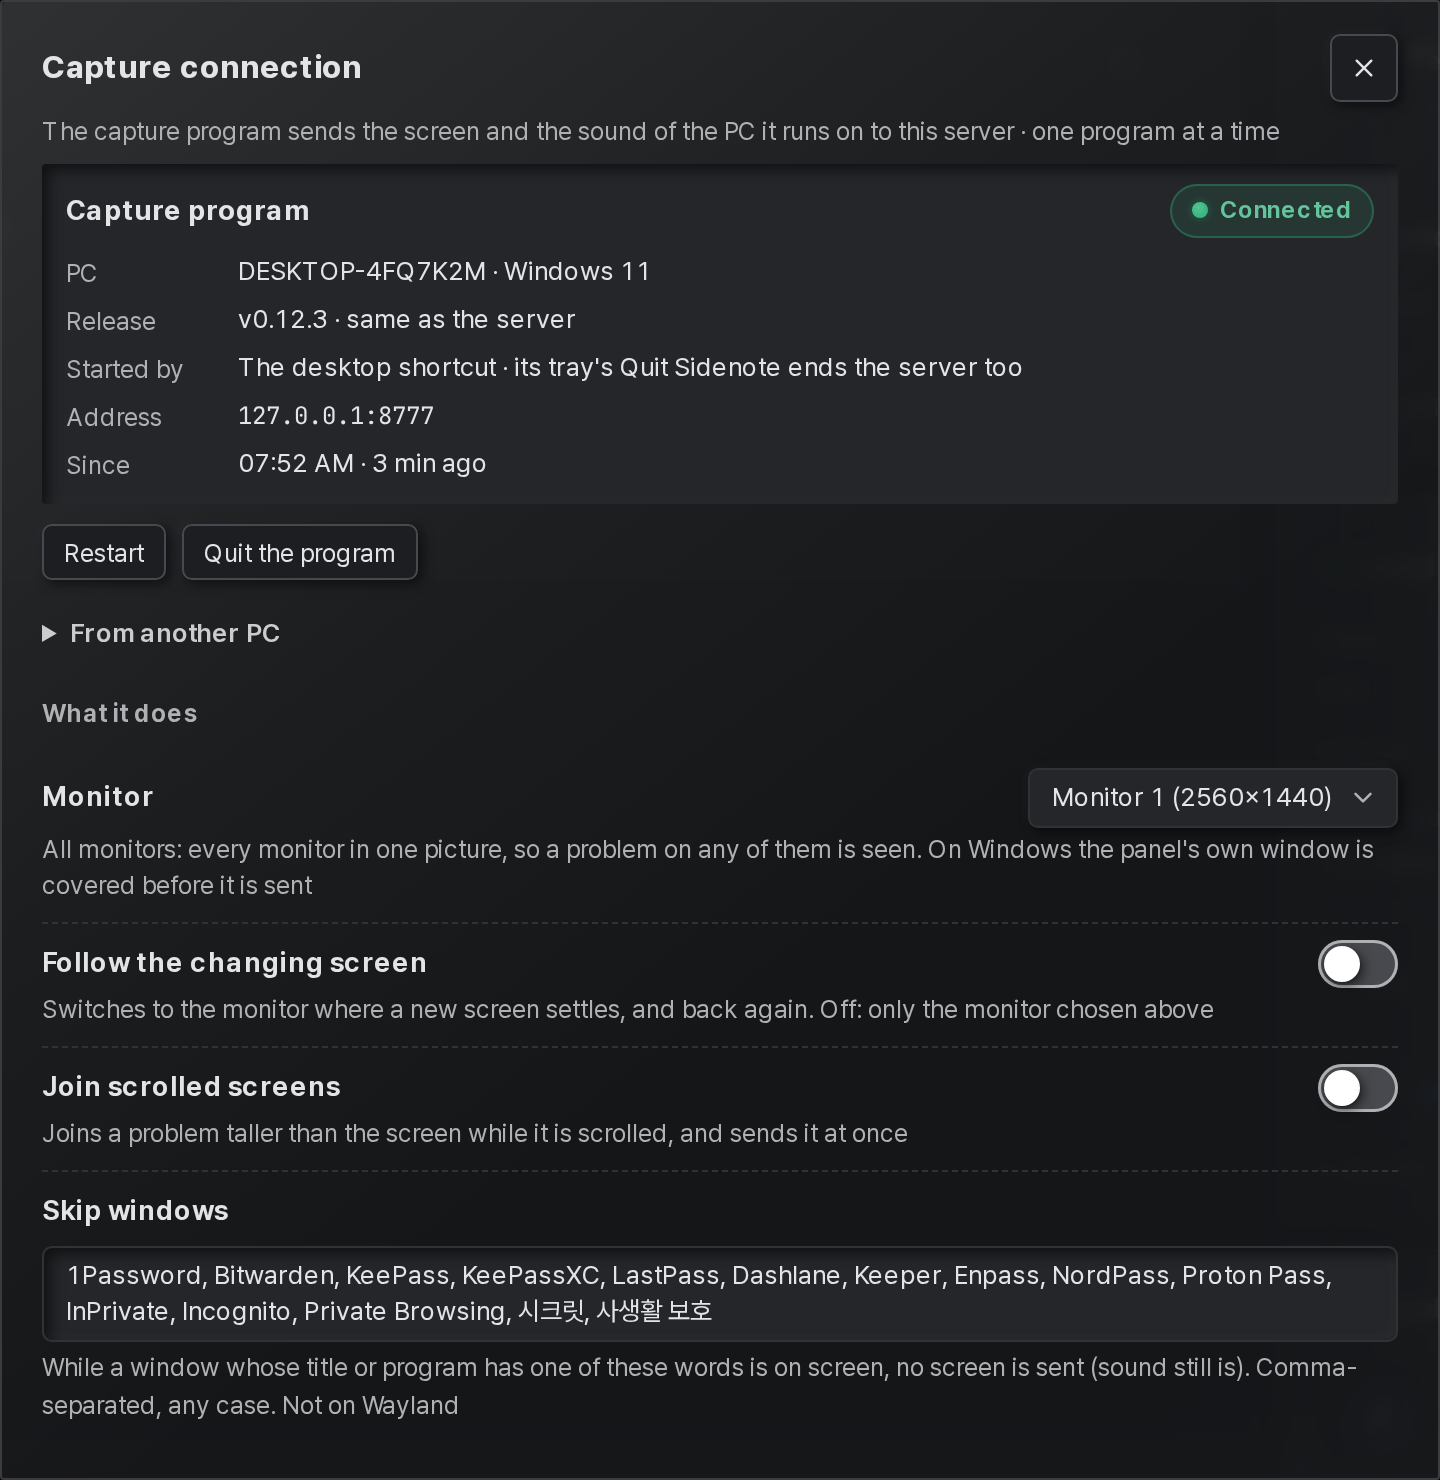
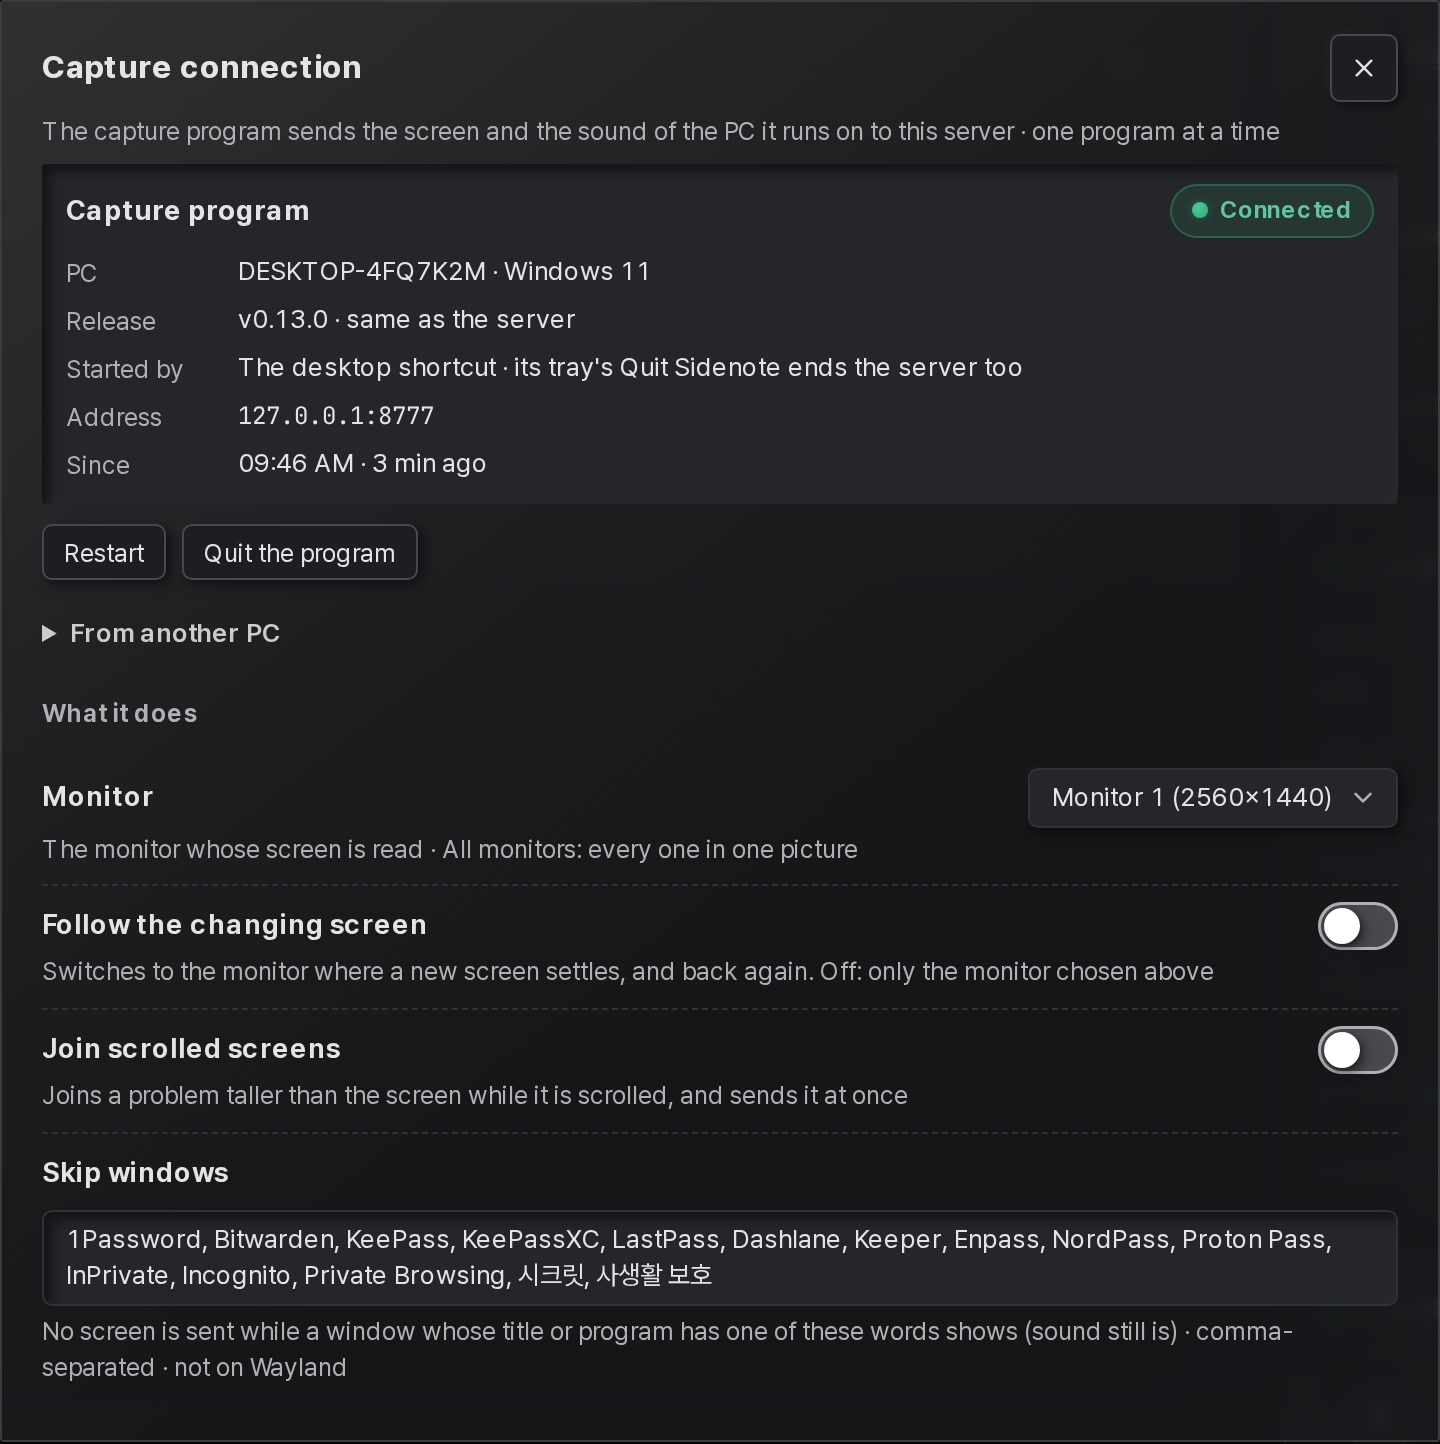
Sidenote 0.13.0

diff --git a/server/version.py b/server/version.py
@@ -7,4 +7,4 @@ Before tagging a release, set it here and in deploy/helm/sidenote/Chart.yaml.
 """
 
 # MAJOR.MINOR.PATCH, as semver.org writes it; the line is read as text, so it stays one line in this form
-VERSION = "0.12.3"
+VERSION = "0.13.0"

diff --git a/docs/README.md b/docs/README.md
@@ -164,9 +164,9 @@ Install Sidenote, start it once, and add what solves: the local model, the cloud
    then asks once for the microphone, as Sidenote hears BlackHole as an input.
 
 To install from a browser instead, download the app for your system from the
-[release](https://github.com/kanggu12/sidenote/releases/latest), `sidenote-server-0.12.3-windows-x64.zip`,
-`sidenote-server-0.12.3-macos-arm64.zip` (Apple silicon) or `sidenote-server-0.12.3-linux-x64.zip`: the server, with its
-panel and this PC's capture program. The release's `sidenote-capture-0.12.3-…` files are the capture program alone, for
+[release](https://github.com/kanggu12/sidenote/releases/latest), `sidenote-server-0.13.0-windows-x64.zip`,
+`sidenote-server-0.13.0-macos-arm64.zip` (Apple silicon) or `sidenote-server-0.13.0-linux-x64.zip`: the server, with its
+panel and this PC's capture program. The release's `sidenote-capture-0.13.0-…` files are the capture program alone, for
 another PC ([the capture program on its own](capture-client.md)). Then:
 
 - **Windows**: right-click the zip, choose **Extract All**, then open the `Sidenote` folder inside and run
@@ -176,14 +176,14 @@ another PC ([the capture program on its own](capture-client.md)). Then:
   stops an app from a browser's download that no publisher signed: in **System Settings**, **Privacy & Security**,
   choose **Open Anyway** at the bottom (on macOS 14, right-click the app, choose **Open**, then **Open** again). The
   quick start's `curl` leaves the zip unmarked, so macOS does not ask there.
-- **Linux**: `unzip sidenote-server-0.12.3-linux-x64.zip && ./Sidenote/Sidenote`.
+- **Linux**: `unzip sidenote-server-0.13.0-linux-x64.zip && ./Sidenote/Sidenote`.
 
-To check a download: each release lists the SHA-256 of its files in `sidenote-0.12.3-sha256sums.txt` (in older
+To check a download: each release lists the SHA-256 of its files in `sidenote-0.13.0-sha256sums.txt` (in older
 releases `SHA256SUMS`, or `Sidenote-<version>-SHA256SUMS.txt`). Run `sha256sum -c --ignore-missing
-sidenote-0.12.3-sha256sums.txt` in the download folder; on macOS compare `shasum -a 256
-sidenote-server-0.12.3-macos-arm64.zip`, and in PowerShell `Get-FileHash sidenote-server-0.12.3-windows-x64.zip`, with
+sidenote-0.13.0-sha256sums.txt` in the download folder; on macOS compare `shasum -a 256
+sidenote-server-0.13.0-macos-arm64.zip`, and in PowerShell `Get-FileHash sidenote-server-0.13.0-windows-x64.zip`, with
 its line there. GitHub also records where each file was built (from 0.1.1 on):
-`gh attestation verify sidenote-server-0.12.3-windows-x64.zip --repo kanggu12/sidenote`.
+`gh attestation verify sidenote-server-0.13.0-windows-x64.zip --repo kanggu12/sidenote`.
 
 When it starts, the app starts Ollama if it is installed but not running, and while it runs it starts again any part it
 started that stops. **Quit Sidenote** in its icon's menu, in the tray or the menu bar, stops everything. Starting the
@@ -560,7 +560,7 @@ notebook carry the same readings.
   - **Clear history**, which takes a second press; an answer still being written stays. Starred answers go with the
     rest, and so does **Recently deleted**.
 
-The version of Sidenote the server runs stands beside the name in the top bar, such as **v0.12.3**, and opens that
+The version of Sidenote the server runs stands beside the name in the top bar, such as **v0.13.0**, and opens that
 release's notes.
 
 The speech language is not in this menu: it is in **Solver settings**, in its **Speech** section.
@@ -1915,8 +1915,8 @@ then runs on its own on your PC (section 17).
 
 When the server is not on this PC (in a cluster, for example), the capture program runs alone on the PC whose screen and
 sound it reads, Windows, a Mac or a Linux desktop: the release's build for that system
-(`sidenote-capture-0.12.3-windows-x64.zip`, `-macos-arm64.zip` or `-linux-x64.zip`) needs nothing installed, and on
-another system the wheel, `sidenote_capture-0.12.3-py3-none-any.whl`, installs with pip on Python 3.10 or newer. It sends to
+(`sidenote-capture-0.13.0-windows-x64.zip`, `-macos-arm64.zip` or `-linux-x64.zip`) needs nothing installed, and on
+another system the wheel, `sidenote_capture-0.13.0-py3-none-any.whl`, installs with pip on Python 3.10 or newer. It sends to
 `ws://127.0.0.1:8777/ingest` by default, which a port-forward on that PC reaches. With the repository in WSL on that
 PC, `./sidenote capture` starts it as usual. [capture-client.md](capture-client.md) has the steps and the options, and
 the panel's **Capture connection** gives them with this server's names and port ([The capture

diff --git a/docs/air-gapped.md b/docs/air-gapped.md
@@ -49,7 +49,7 @@ program keeps the GPU busy; leave it out if you do not want that.
 | 8 GB | `sidenote-gemma4:e2b` | none | 4.6 GB |
 
 ```bash
-V=0.12.3                                     # the newest release, from the releases page
+V=0.13.0                                     # the newest release, from the releases page
 git clone --depth 1 --branch "v$V" https://github.com/kanggu12/sidenote
 cd sidenote
 ./sidenote up                               # builds the images, pulls Ollama's and downloads the speech model
@@ -142,8 +142,8 @@ A speech model that is not in the bundle cannot be chosen in the panel: the choi
 
 The apps for Windows, macOS and Linux hold the server and the capture program, so they need no images and no Python
 packages. Bring `models.tar` and `speech.tar` from step 1, the app's zip from the
-[release](https://github.com/kanggu12/sidenote/releases) (`sidenote-server-0.12.3-windows-x64.zip`,
-`sidenote-server-0.12.3-macos-arm64.zip` or `sidenote-server-0.12.3-linux-x64.zip`), and Ollama's own download: on Linux its archive,
+[release](https://github.com/kanggu12/sidenote/releases) (`sidenote-server-0.13.0-windows-x64.zip`,
+`sidenote-server-0.13.0-macos-arm64.zip` or `sidenote-server-0.13.0-linux-x64.zip`), and Ollama's own download: on Linux its archive,
 as its install script needs the internet.
 
 Install Ollama. Its installer starts it at every sign-in, and Sidenote then uses that Ollama as it is. A model from a
@@ -196,7 +196,7 @@ Push the bundle's images to a registry inside the network, under the names the c
 their tag:
 
 ```bash
-V=0.12.3                                     # the release the bundle was made from
+V=0.13.0                                     # the release the bundle was made from
 gunzip -c images.tar.gz | docker load
 for name in sidenote sidenote-runner; do
   docker tag "$name:local" "registry.internal/$name:$V" && docker push "registry.internal/$name:$V"
@@ -205,7 +205,7 @@ docker tag ollama/ollama:0.40.5 registry.internal/ollama/ollama:0.40.5 && docker
 ```
 
 For an AMD GPU, push `ollama/ollama:0.40.5-rocm` the same way and add `gpuVendor: amd` under `llm` below. Bring the chart,
-`sidenote-server-0.12.3-helm-chart.tgz`, from the release, and write a values file that names the registry and turns off what
+`sidenote-server-0.13.0-helm-chart.tgz`, from the release, and write a values file that names the registry and turns off what
 needs the internet:
 
 ```yaml
@@ -241,9 +241,9 @@ and that root cannot read files that kept the owner they had on the other PC. He
 download, which needs the internet; the two `tar` lines put the bundle's models in place instead.
 
 The capture program runs on the PC with the screen, as [the capture program on its own](capture-client.md) says: the
-release's build for that PC's system (`sidenote-capture-0.12.3-windows-x64.zip`, `-macos-arm64.zip` or `-linux-x64.zip`),
-which needs nothing installed, or the wheel, `sidenote_capture-0.12.3-py3-none-any.whl`, with the packages it needs from the bundle's
-wheels, copied next to it: `py -m pip install --no-index --find-links wheels sidenote_capture-0.12.3-py3-none-any.whl` on Windows, then
+release's build for that PC's system (`sidenote-capture-0.13.0-windows-x64.zip`, `-macos-arm64.zip` or `-linux-x64.zip`),
+which needs nothing installed, or the wheel, `sidenote_capture-0.13.0-py3-none-any.whl`, with the packages it needs from the bundle's
+wheels, copied next to it: `py -m pip install --no-index --find-links wheels sidenote_capture-0.13.0-py3-none-any.whl` on Windows, then
 `sidenote-capture --server ws://127.0.0.1:8777/ingest`.
 
 ## With a model server you already run

diff --git a/docs/capture-client.md b/docs/capture-client.md
@@ -14,9 +14,9 @@ it pointing at the server. It needs nothing installed.
 
 | System | The release's file | Start it, where it was unpacked |
 |:---|:---|:---|
-| Windows (x64) | `sidenote-capture-0.12.3-windows-x64.zip` | `.\Sidenote-Capture\Sidenote-Capture.exe --server ws://127.0.0.1:8777/ingest` |
-| macOS (Apple silicon) | `sidenote-capture-0.12.3-macos-arm64.zip` | `open Sidenote-Capture.app --args --server ws://127.0.0.1:8777/ingest` |
-| Linux (x64, X11) | `sidenote-capture-0.12.3-linux-x64.zip` | `./Sidenote-Capture/Sidenote-Capture --server ws://127.0.0.1:8777/ingest` |
+| Windows (x64) | `sidenote-capture-0.13.0-windows-x64.zip` | `.\Sidenote-Capture\Sidenote-Capture.exe --server ws://127.0.0.1:8777/ingest` |
+| macOS (Apple silicon) | `sidenote-capture-0.13.0-macos-arm64.zip` | `open Sidenote-Capture.app --args --server ws://127.0.0.1:8777/ingest` |
+| Linux (x64, X11) | `sidenote-capture-0.13.0-linux-x64.zip` | `./Sidenote-Capture/Sidenote-Capture --server ws://127.0.0.1:8777/ingest` |
 
 `ws://127.0.0.1:8777/ingest` is also its default, so with the server's port forwarded to 8777 a double-click starts it
 too. On Windows it is not signed by a publisher yet: the first time, **More info**, then **Run anyway**. On macOS it asks
@@ -26,14 +26,14 @@ opened the first time from **System Settings**, **Privacy & Security**, **Open A
 (in a Wayland session, only what XWayland shows) and the speaker sound through PulseAudio, or PipeWire's PulseAudio
 service.
 
-On another system (an Intel Mac, Windows or Linux on ARM), install the wheel, `sidenote_capture-0.12.3-py3-none-any.whl`: the program as a
+On another system (an Intel Mac, Windows or Linux on ARM), install the wheel, `sidenote_capture-0.13.0-py3-none-any.whl`: the program as a
 Python package, the same for every system (`py3-none-any` is the wheel format's way of saying any Python 3 on any
 system). It needs Python 3.10 or newer ([python.org](https://www.python.org/downloads/); on Windows its installer adds
 the `py` command), and pip installs the packages it needs with it and gives it a command:
 
 ```bash
 python3 -m venv ~/.sidenote-capture && . ~/.sidenote-capture/bin/activate
-python3 -m pip install https://github.com/kanggu12/sidenote/releases/download/v0.12.3/sidenote_capture-0.12.3-py3-none-any.whl
+python3 -m pip install https://github.com/kanggu12/sidenote/releases/download/v0.13.0/sidenote_capture-0.13.0-py3-none-any.whl
 sidenote-capture --server ws://127.0.0.1:8777/ingest
 ```
 

diff --git a/README.md b/README.md
@@ -12,7 +12,7 @@
 
 <p align="center">
   <a href="https://github.com/kanggu12/sidenote/actions/workflows/ci.yml"><img alt="CI" src="https://github.com/kanggu12/sidenote/actions/workflows/ci.yml/badge.svg"></a>
-  <a href="https://github.com/kanggu12/sidenote/releases"><img alt="Release v0.12.3" src="docs/assets/badges/release.svg"></a>
+  <a href="https://github.com/kanggu12/sidenote/releases"><img alt="Release v0.13.0" src="docs/assets/badges/release.svg"></a>
   <a href="LICENSE"><img alt="License: MIT" src="docs/assets/badges/license.svg"></a>
   <img alt="Runs on Windows, Linux and macOS" src="docs/assets/badges/runs-on.svg">
   <img alt="GPU: NVIDIA, AMD, Apple silicon or none" src="docs/assets/badges/gpu.svg">
@@ -48,7 +48,7 @@ for the rest.
 **Windows 10 or 11** (PowerShell)
 
 ```powershell
-curl.exe -fL -o "$env:TEMP\Sidenote.zip" https://github.com/kanggu12/sidenote/releases/download/v0.12.3/sidenote-server-0.12.3-windows-x64.zip
+curl.exe -fL -o "$env:TEMP\Sidenote.zip" https://github.com/kanggu12/sidenote/releases/download/v0.13.0/sidenote-server-0.13.0-windows-x64.zip
 mkdir -Force "$env:LOCALAPPDATA\Programs" | Out-Null; tar -xf "$env:TEMP\Sidenote.zip" -C "$env:LOCALAPPDATA\Programs"
 & "$env:LOCALAPPDATA\Programs\Sidenote\Sidenote.exe"
 ```
@@ -57,15 +57,15 @@ mkdir -Force "$env:LOCALAPPDATA\Programs" | Out-Null; tar -xf "$env:TEMP\Sidenot
 Sidenote on, then quit it from its menu bar icon and open it again.
 
 ```bash
-curl -fL -o /tmp/Sidenote.zip https://github.com/kanggu12/sidenote/releases/download/v0.12.3/sidenote-server-0.12.3-macos-arm64.zip
+curl -fL -o /tmp/Sidenote.zip https://github.com/kanggu12/sidenote/releases/download/v0.13.0/sidenote-server-0.13.0-macos-arm64.zip
 ditto -x -k /tmp/Sidenote.zip /Applications && open /Applications/Sidenote.app
 ```
 
 **Linux** (x64, an X11 session)
 
 ```bash
-curl -fLO https://github.com/kanggu12/sidenote/releases/download/v0.12.3/sidenote-server-0.12.3-linux-x64.zip
-unzip -oq sidenote-server-0.12.3-linux-x64.zip && ./Sidenote/Sidenote
+curl -fLO https://github.com/kanggu12/sidenote/releases/download/v0.13.0/sidenote-server-0.13.0-linux-x64.zip
+unzip -oq sidenote-server-0.13.0-linux-x64.zip && ./Sidenote/Sidenote
 ```
 
 **Docker** on Linux, WSL 2 or a Mac, with `git` and `python3`. It adds web search and a sandbox that runs code answers

diff --git a/CHANGELOG.md b/CHANGELOG.md
@@ -6,6 +6,8 @@ that only fixes raises the patch number. Each release's section here is its rele
 
 ## [Unreleased]
 
+## [0.13.0] - 2026-11-24
+
 Spoken questions are not dropped while an answer is being worked out, a follow-up is answered while either engine can,
 and Continue puts this PC's model on the GPU before the first question.
 
@@ -1035,7 +1037,8 @@ Code answers come in a language you choose when nothing names one, Python by def
 
 The first public release: the app for Windows and Linux, the Docker setup, the Helm chart and the capture program.
 
-[Unreleased]: https://github.com/kanggu12/sidenote/compare/v0.12.3...HEAD
+[Unreleased]: https://github.com/kanggu12/sidenote/compare/v0.13.0...HEAD
+[0.13.0]: https://github.com/kanggu12/sidenote/compare/v0.12.3...v0.13.0
 [0.12.3]: https://github.com/kanggu12/sidenote/compare/v0.12.2...v0.12.3
 [0.12.2]: https://github.com/kanggu12/sidenote/compare/v0.12.1...v0.12.2
 [0.12.1]: https://github.com/kanggu12/sidenote/compare/v0.12.0...v0.12.1

diff --git a/deploy/helm/sidenote/README.md b/deploy/helm/sidenote/README.md
@@ -205,7 +205,7 @@ panel to your network.
 The capture program sends to `ws://127.0.0.1:8777/ingest` by default. Run the port-forward on the PC with the screen
 (on Windows, or in WSL on that PC: Windows reaches WSL's localhost), and start the program as usual: `./sidenote capture`
 from the repository (it only checks that `http://127.0.0.1:8777/health` answers), or the release's capture program for
-that PC's system, `sidenote-capture-0.12.3-windows-x64.zip`, `-macos-arm64.zip` or `-linux-x64.zip`, which needs nothing
+that PC's system, `sidenote-capture-0.13.0-windows-x64.zip`, `-macos-arm64.zip` or `-linux-x64.zip`, which needs nothing
 installed and sends to that address by default, so a double-click starts it
 ([the capture program on its own](../../../docs/capture-client.md) gives its commands and the Python one for other
 systems). A port-forward ends when the pod behind it is replaced, after an upgrade or a restart; start it again, and the
